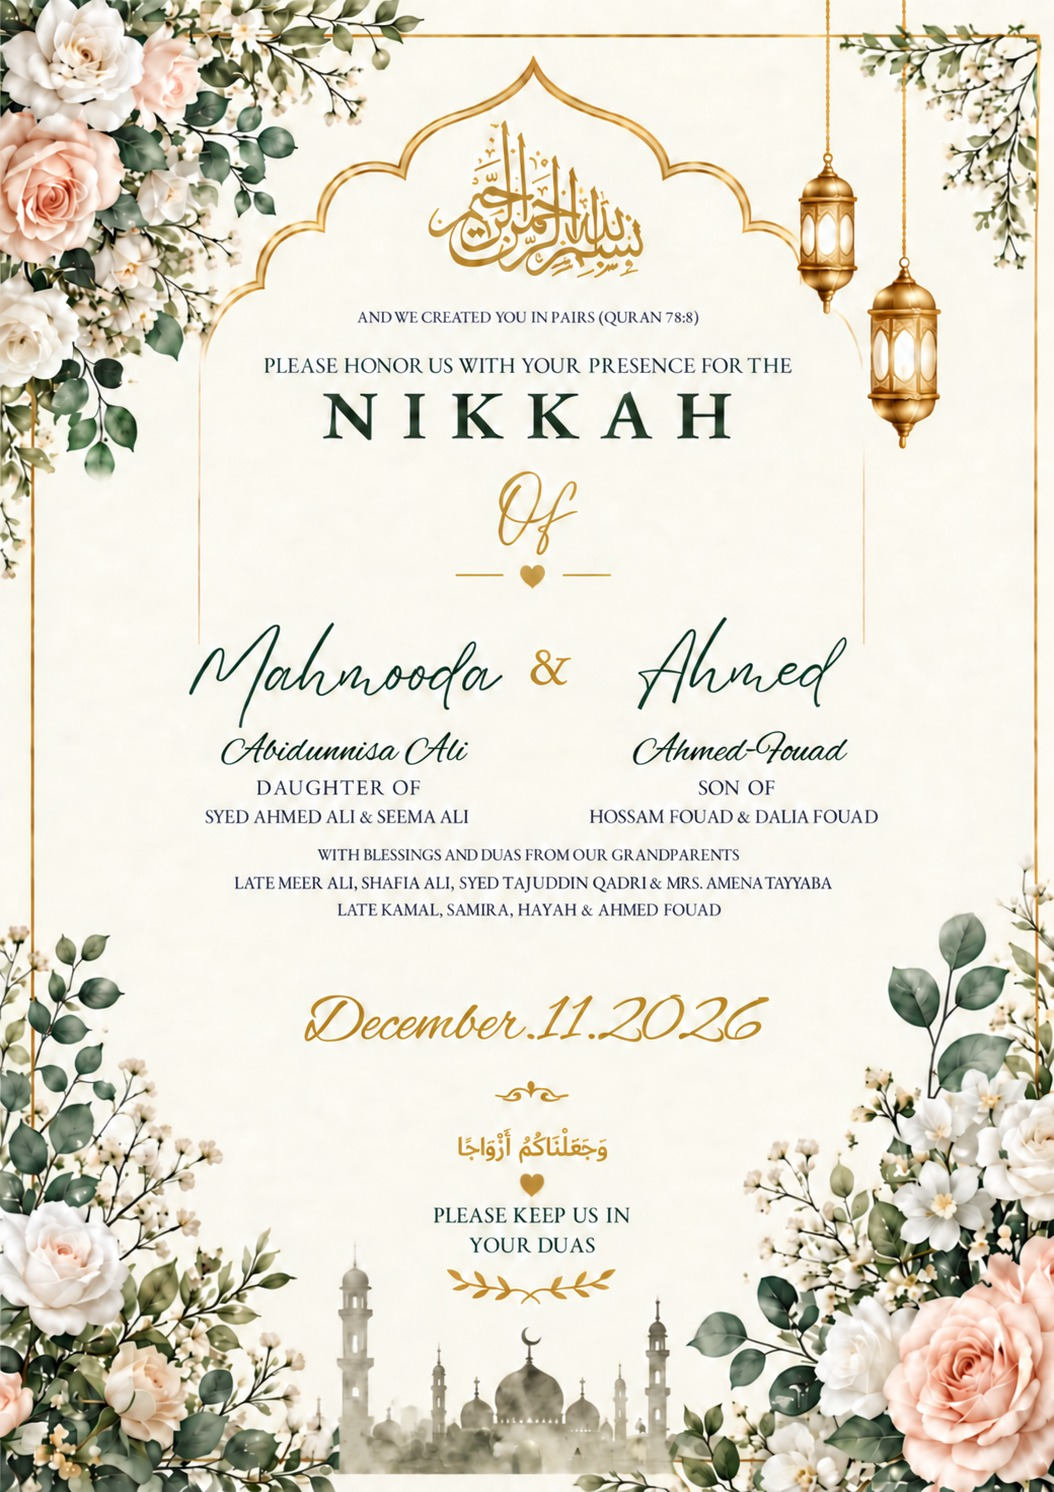
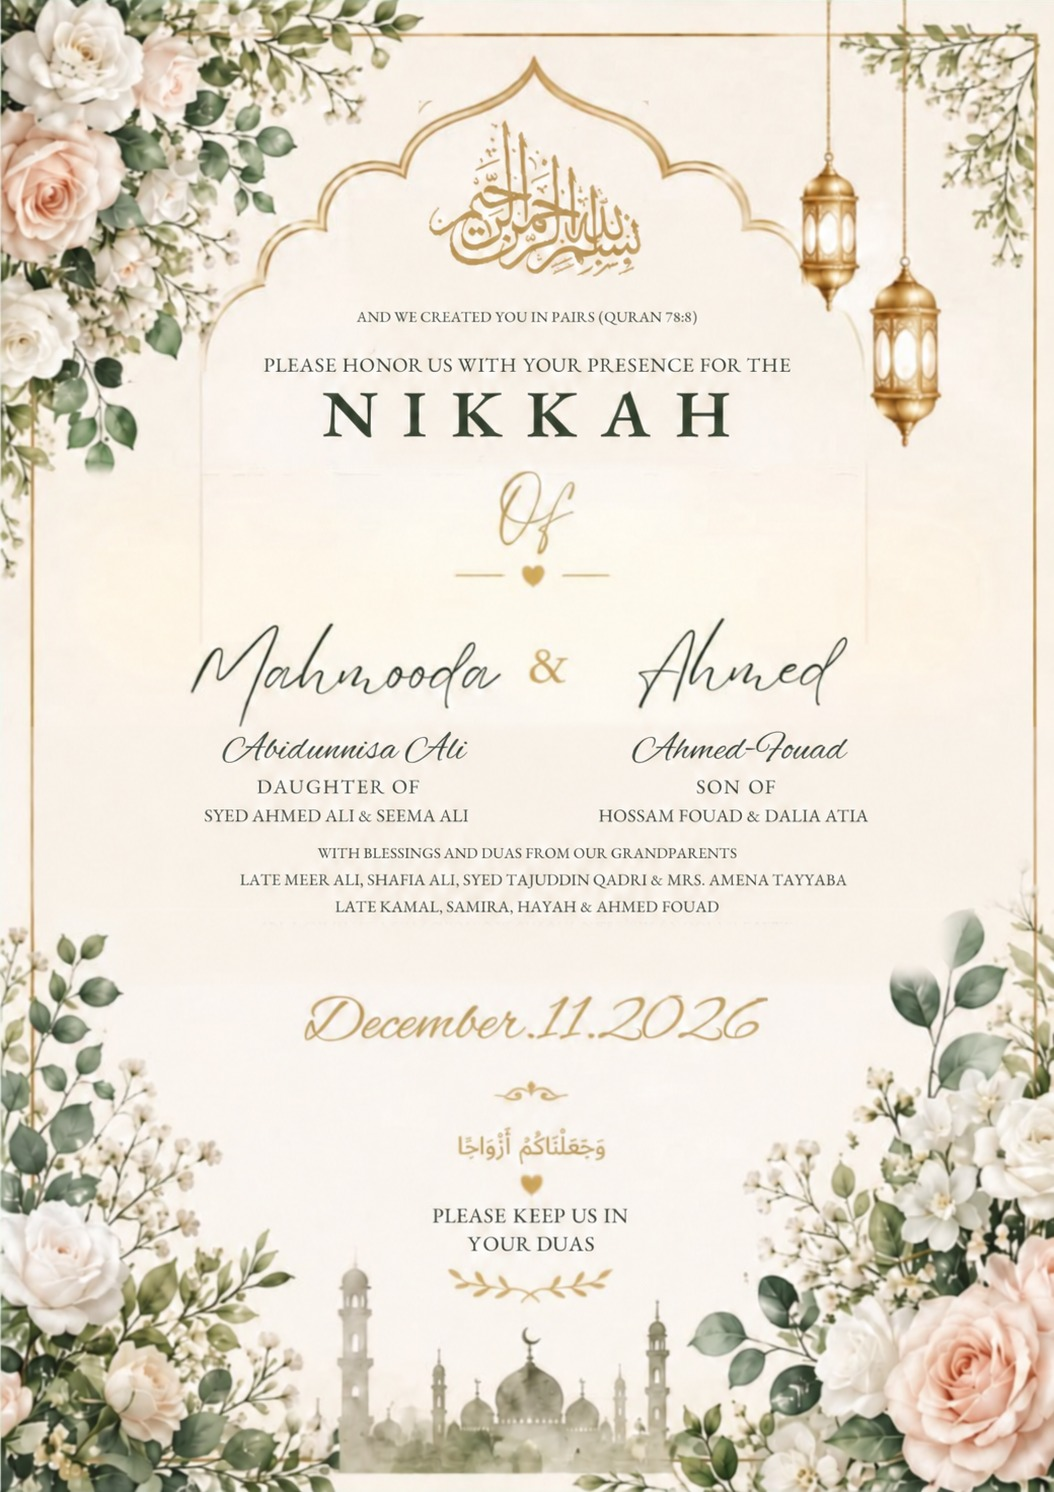
Fixed name on welcome and updated FAQs

diff --git a/faq.html b/faq.html
@@ -51,7 +51,7 @@
 
   <div class="card faq-item">
     <div class="faq-question">When do I need to RSVP by?</div>
-    <div class="faq-answer">Please RSVP by October 31, 2026.</div>
+    <div class="faq-answer">Please RSVP by October 31, 2026. If any changes or updates are needed after the rsvp deadline, please reach out to us directly. Thank you!</div>
   </div>
 
   <div class="card faq-item">
